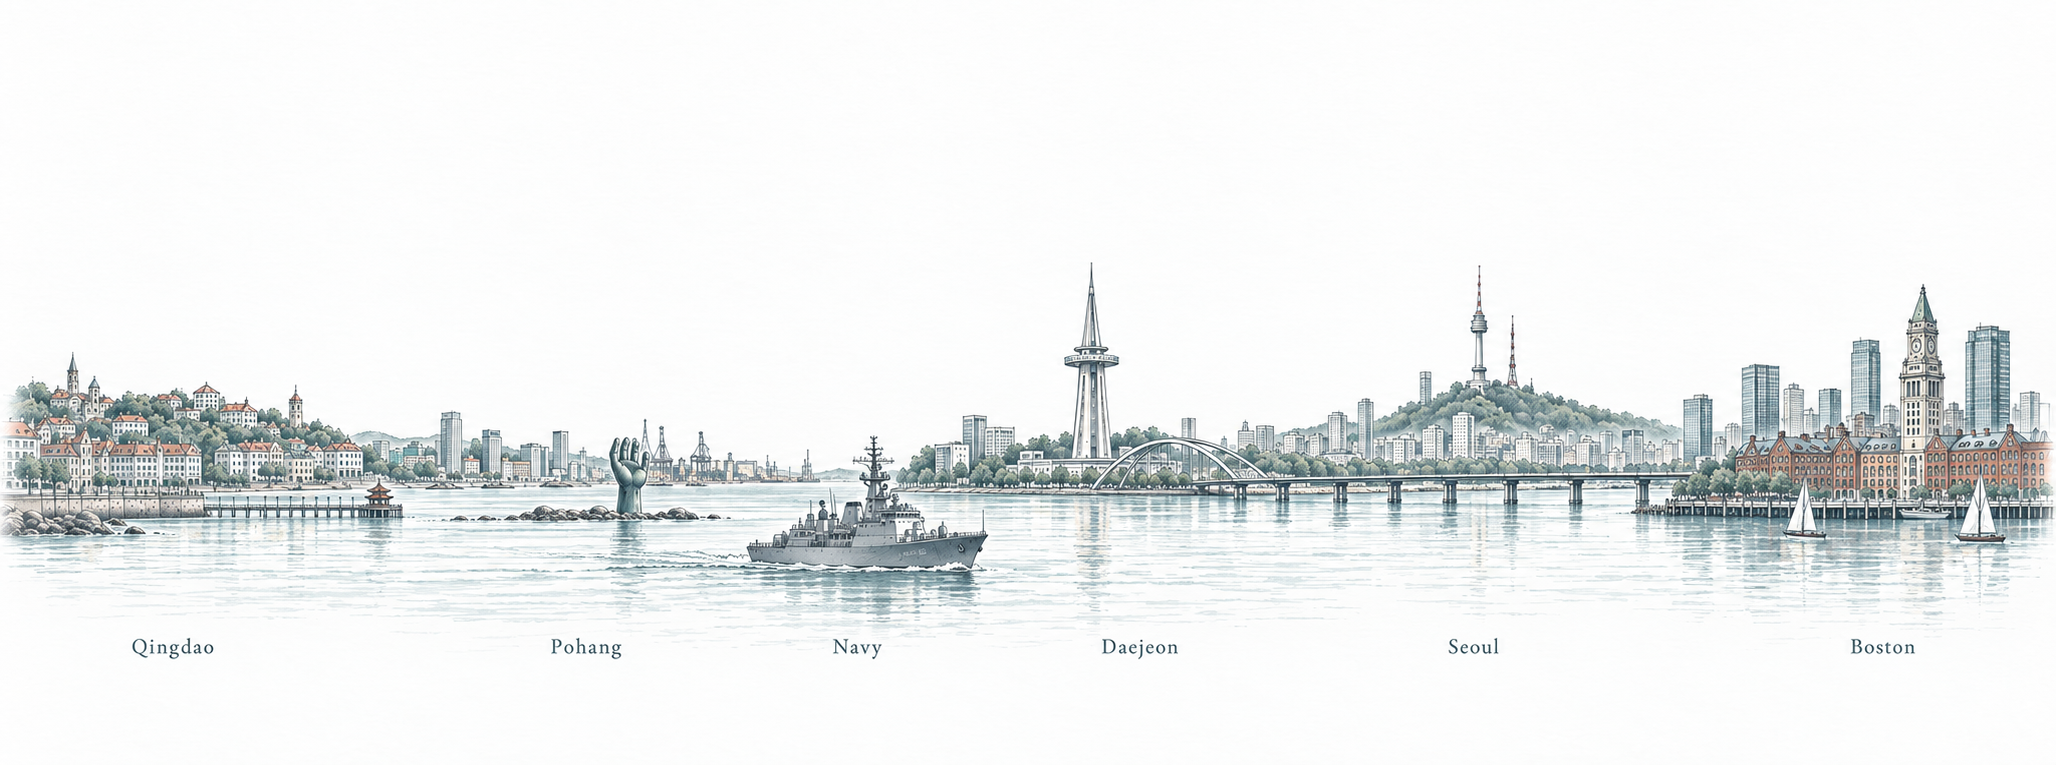
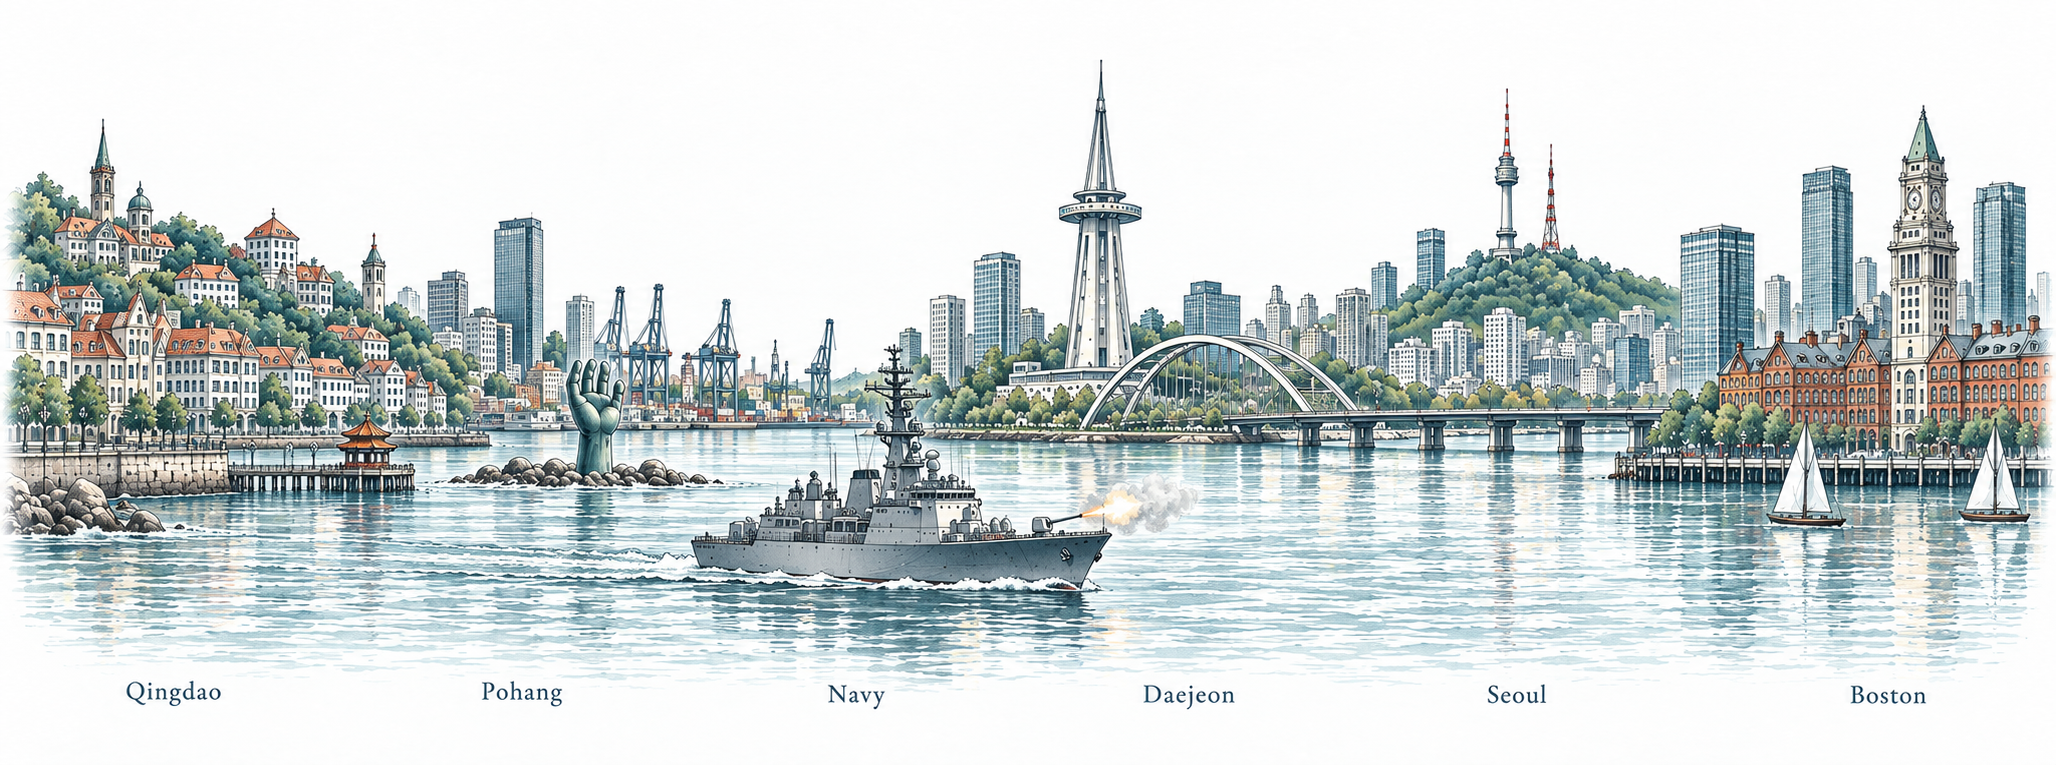
Enlarge journey hero and enrich naval illustration

diff --git a/pages/About.tsx b/pages/About.tsx
@@ -11,19 +11,21 @@ const About: React.FC<AboutProps> = ({ data }) => {
   return (
     <div className="snap-container">
       {/* Hero Section */}
-      <section aria-labelledby="about-name" className="snap-section pt-8 md:pt-12">
-        <div className="max-w-6xl mx-auto px-6 sm:px-8 welcome-fade">
+      <section aria-labelledby="about-name" className="snap-section pt-4 md:pt-6">
+        <div className="max-w-[1600px] mx-auto px-3 sm:px-6 lg:px-8 welcome-fade">
           <div className="overflow-hidden rounded-2xl md:rounded-3xl bg-[#FAF9F6] dark:ring-1 dark:ring-white/10">
             <img
               src="/journey-hero.png"
               alt="A watercolor journey through Qingdao, Pohang, Daejeon, Seoul, and Boston, with a naval ship representing Navy service."
+              width={2056}
+              height={765}
               className="block w-full h-auto dark:brightness-90"
               fetchPriority="high"
             />
           </div>
 
           {/* Name */}
-          <div className="text-center pt-8 md:pt-10 pb-10 md:pb-14">
+          <div className="text-center pt-6 md:pt-8 pb-8 md:pb-10">
             <h1 id="about-name" className="text-4xl md:text-[3.4rem] font-display font-bold text-gray-900 dark:text-gray-100 mb-4 leading-tight">
               {data.personalInfo.name}
             </h1>
